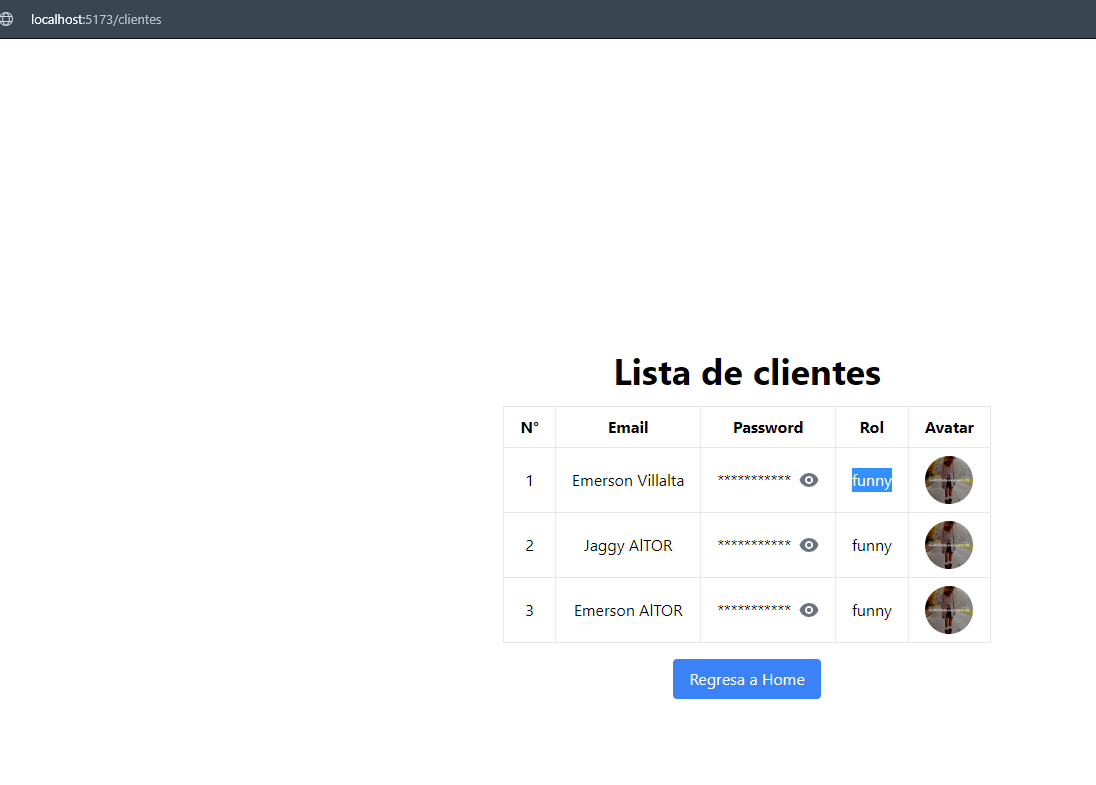
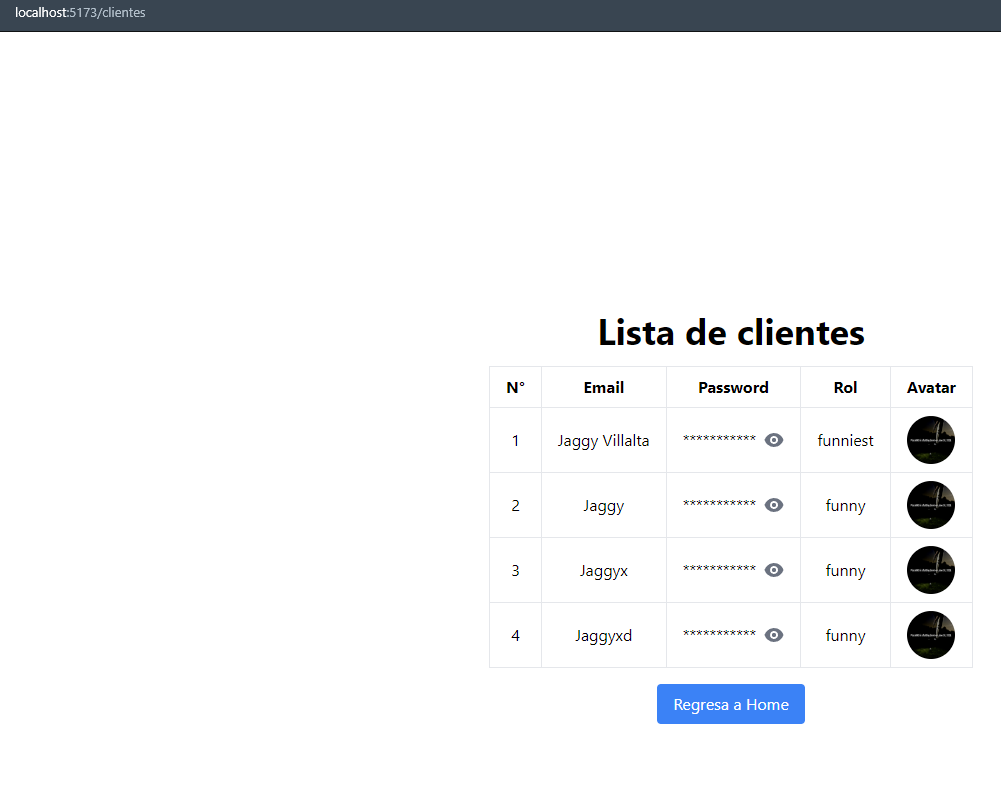
Correciones

diff --git a/frontends3/src/Pages/Clientes/index.jsx b/frontends3/src/Pages/Clientes/index.jsx
@@ -13,7 +13,7 @@ const Clientes = () => {
             try {
                 const api = 'COLOCA-TU-API';
                 const local = 'http://localhost:3000/dev/users/'
-                const response = await fetch(api);
+                const response = await fetch(local);
                 const data = await response.json();
                 console.log(data?.users);
                 setClientes(data?.users)
